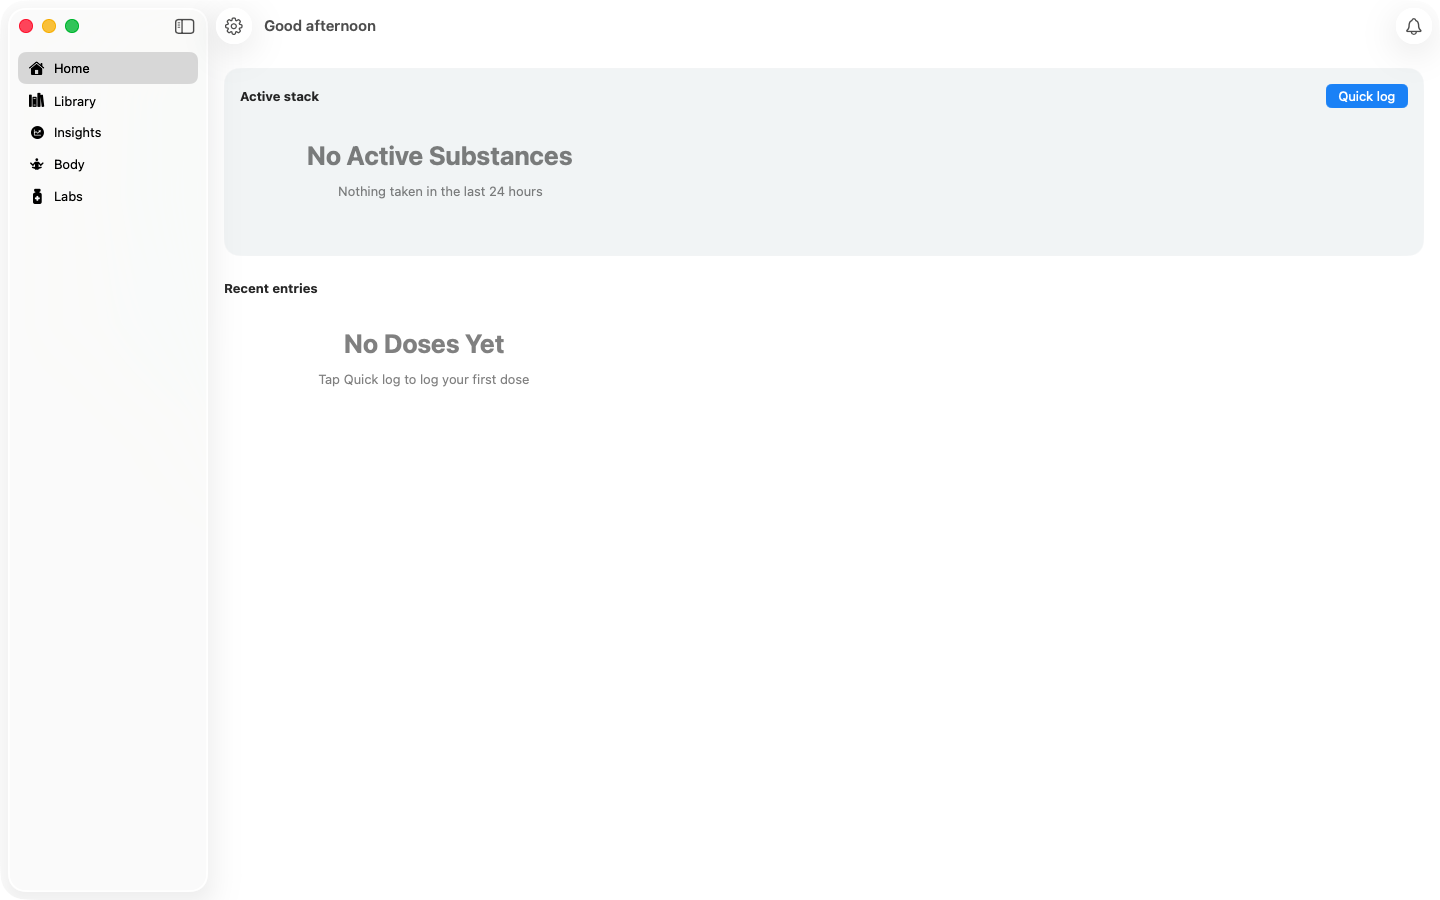
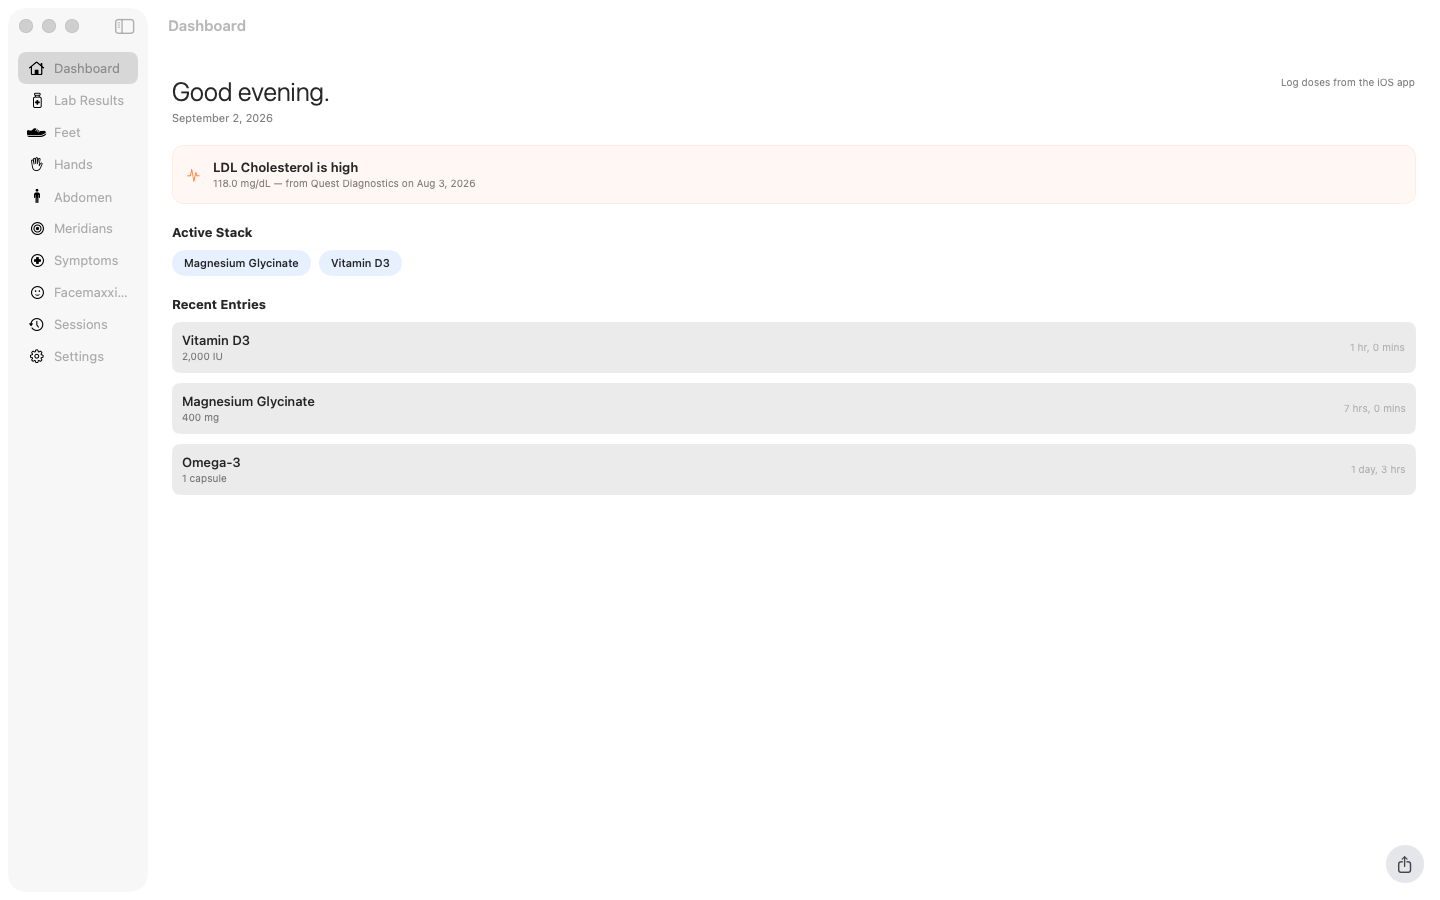
README: seeded macOS home screenshot; Mac skips auth under UITEST_SNAPSHOT
Claude-Session: https://claude.ai/code/session_01HbXHTHXNUFyd56GN7fXF4Y

diff --git a/macos/HealstackApp.swift b/macos/HealstackApp.swift
@@ -13,7 +13,7 @@ struct HealstackApp: App {
                 if authService.isLoading {
                     ProgressView()
                         .frame(maxWidth: .infinity, maxHeight: .infinity)
-                } else if authService.user == nil {
+                } else if authService.user == nil && !CommandLine.arguments.contains("UITEST_SNAPSHOT") {
                     MacAuthView(authService: authService)
                         .frame(width: 400, height: 480)
                 } else {

diff --git a/README.md b/README.md
@@ -11,6 +11,8 @@ A dose log, a harm reduction library, and a health dashboard. Web, iOS and macOS
 
 ## Screenshots
 
+<img src="screenshots/macos/home.png" width="800">
+
 <img src="screenshots/macos/library.png" width="800">
 
 <p>
